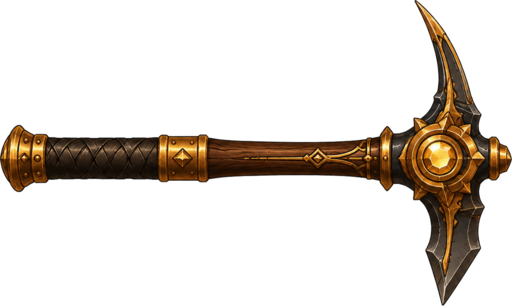
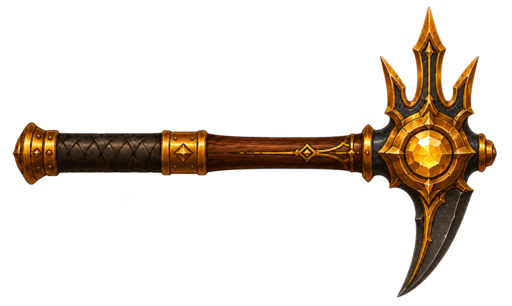
Reforge Crownseeker

Changed region(s): [[0.0, 0.0, 1.0, 1.0]]

diff --git a/tests/runtime-smoke.js b/tests/runtime-smoke.js
@@ -78,17 +78,17 @@ assert.doesNotMatch(pickupBatchSource,/floaters\.push/,'routine pickups must sta
 assert.match(source,/WORLD_LIFE_ART\[response\.kind==='footstep'\?'response':'impact'\]/,'mining must use dedicated impact art while footsteps retain ground responses');
 assert.doesNotMatch(effectRendererSource,/particle|ring|ctx\.arc|ctx\.fillRect/,'the generic effect pass must not render procedural shapes');
 assert.match(effectRendererSource,/STARTER_ART\.drops\[key\]/);assert.match(effectRendererSource,/ctx\.drawImage\(image,bounds\.x,bounds\.y,bounds\.w,bounds\.h/,'sale trails must render premium drop PNGs');
-assert.equal(latest.version,'03800');
+assert.equal(latest.version,'03801');
 assert.match(html,/version\.json\?t=/);
 assert.match(html,/cache:'no-store'/);
-assert.match(html,/style\.css\?v=03800/);
-assert.match(html,/game-data\.js\?v=03800/);
-assert.match(html,/script\.js\?v=03800/);
-assert.match(html,/assets\/branding\/ever-deeper-logo\.png\?v=03800/);
-assert.match(html,/assets\/characters\/miner-b-walk\.png\?v=03800/);
-assert.match(html,/id="toolIcon"[^>]+assets\/tools\/pickaxe-worn\.png\?v=03800/);
-assert.match(html,/id="mineToolIcon"[^>]+assets\/tools\/pickaxe-worn\.png\?v=03800/);
-assert.match(html,/rel="manifest" href="manifest\.webmanifest\?v=03800"/);
+assert.match(html,/style\.css\?v=03801/);
+assert.match(html,/game-data\.js\?v=03801/);
+assert.match(html,/script\.js\?v=03801/);
+assert.match(html,/assets\/branding\/ever-deeper-logo\.png\?v=03801/);
+assert.match(html,/assets\/characters\/miner-b-walk\.png\?v=03801/);
+assert.match(html,/id="toolIcon"[^>]+assets\/tools\/pickaxe-worn\.png\?v=03801/);
+assert.match(html,/id="mineToolIcon"[^>]+assets\/tools\/pickaxe-worn\.png\?v=03801/);
+assert.match(html,/rel="manifest" href="manifest\.webmanifest\?v=03801"/);
 assert.match(source,/const EMBER_PICKAXE_ORE_REQUIRED=100;/);
 assert.match(source,/const EMBER_MASTERY_SUNSLAG_COSTS=Object\.freeze\(\[0,30,40,50,60,70\]\);/);
 assert.match(source,/const STARFORGE_MATERIAL_REQUIRED=200;/);
@@ -143,6 +143,10 @@ for(const id of expectedAchievementIds){
 assert.equal(achievementAssetDigests.size,50,'every achievement must have its own sprite');
 const playerAssets=['assets/characters/miner-b.png','assets/characters/miner-b-drill-burrower.png','assets/characters/miner-b-drill-pulse.png','assets/characters/miner-b-drill-deepcore.png','assets/tools/pickaxe-worn.png','assets/tools/pickaxe-iron.png','assets/tools/pickaxe-runed.png','assets/tools/pickaxe-moonglass.png','assets/tools/pickaxe-ember.png','assets/tools/starforge-crusher.png','assets/tools/starforge-swift.png','assets/tools/starforge-prospector.png'];
 for(const relative of playerAssets){const path=require('node:path').join(__dirname,'..',relative),png=fs.readFileSync(path);assert.equal(png.toString('ascii',1,4),'PNG');assert.equal(png[25],6,relative+' must use RGBA');assert.ok(png.length<250000,relative+' exceeds mobile asset budget')}
+assertPng('assets/tools/starforge-prospector.png',512,306,{maxBytes:250000});
+const crownseekerDigest=require('node:crypto').createHash('sha256').update(fs.readFileSync(require('node:path').join(repositoryRoot,'assets/tools/starforge-prospector.png'))).digest('hex');
+const emberPickaxeDigest=require('node:crypto').createHash('sha256').update(fs.readFileSync(require('node:path').join(repositoryRoot,'assets/tools/pickaxe-ember.png'))).digest('hex');
+assert.notEqual(crownseekerDigest,emberPickaxeDigest,'Crownseeker must remain visually distinct from the Ember Pickaxe');
 const playerWalkAssets=['assets/characters/miner-b-walk.png','assets/characters/miner-b-drill-burrower-walk.png','assets/characters/miner-b-drill-pulse-walk.png','assets/characters/miner-b-drill-deepcore-walk.png'];
 for(const relative of playerWalkAssets)assertPng(relative,1536,1024,{maxBytes:1500000});
 const ambientAssets={
@@ -387,17 +391,17 @@ const expectedSnapshotKeys=[
 ];
 assert.deepEqual(Object.keys(api).sort(),expectedApiKeys,'test API contract changed unexpectedly');
 assert.deepEqual(Object.keys(api.snapshot()).sort(),expectedSnapshotKeys,'snapshot contract changed unexpectedly');
-assert.equal(api.snapshot().build.version,'0.38.0');
+assert.equal(api.snapshot().build.version,'0.38.1');
 assert.equal(api.snapshot().build.name,'UNDERGROUND HUB');
-assert.equal(runtime.elements.get('buildVersion').textContent,'v0.38.0');
-assert.equal(api.snapshot().assetVersion,'03800');
+assert.equal(runtime.elements.get('buildVersion').textContent,'v0.38.1');
+assert.equal(api.snapshot().assetVersion,'03801');
 const patchNotes=api.snapshot().patchNotes,patchNote=version=>patchNotes.find(note=>note.version===version);
-assert.match(patchNote('0.38.0').items.join(' '),/touch-first build mode/);assert.match(patchNote('0.37.5').items.join(' '),/1.30x speed/);
-assert.equal(patchNotes.length,32);assert.match(patchNote('0.37.4').items.join(' '),/high three-quarter perspective/);assert.match(patchNote('0.37.4').items.join(' '),/west to east/);assert.match(patchNote('0.37.3').items.join(' '),/premium silhouette/);assert.match(patchNote('0.37.3').items.join(' '),/physically locked/);assert.match(patchNote('0.37.2').items.join(' '),/dedicated premium mining sheets/);assert.match(patchNote('0.37.2').items.join(' '),/Routine damage, shell, tunnel, pickup, and partial-vein text/);assert.match(patchNote('0.37.1').items.join(' '),/old canvas rings and procedural debris are gone/);assert.match(patchNote('0.37.1').items.join(' '),/real premium drop assets/);assert.match(patchNote('0.37.0').items.join(' '),/premium environmental drift/);assert.match(patchNote('0.37.0').items.join(' '),/Footsteps disturb the ground/);assert.match(patchNote('0.36.4').items.join(' '),/flee continuously/);assert.match(patchNote('0.36.3').items.join(' '),/keep their render slot/);assert.match(patchNote('0.36.2').items.join(' '),/pause and rest naturally/);assert.match(patchNote('0.36.2').items.join(' '),/Nearby mining startles residents/);assert.match(patchNote('0.36.1').items.join(' '),/clearly visible routes/);assert.match(patchNote('0.36.1').items.join(' '),/sampled against terrain/);assert.match(patchNote('0.36.0').items.join(' '),/Four premium animated creatures/);assert.match(patchNote('0.36.0').items.join(' '),/Reduced Motion/);assert.match(patchNote('0.35.11').items.join(' '),/70 Phase Crystal/);assert.match(patchNote('0.35.10').items.join(' '),/DEEPCORE DRILL REQUIRED/);assert.match(patchNote('0.35.9').items.join(' '),/Eight unreachable Astralite nodes/);assert.match(patchNote('0.35.8').items.join(' '),/30, 40, 50, 60, and 70/);assert.match(patchNote('0.35.7').items.join(' '),/Holding Mine/);assert.match(patchNote('0.35.7').items.join(' '),/manual press/);assert.match(patchNote('0.35.6').items.join(' '),/painted width/);assert.match(patchNote('0.35.5').items.join(' '),/tink-tink-tink/);assert.match(patchNote('0.35.4').items.join(' '),/complete passage/);assert.match(patchNote('0.35.3').items.join(' '),/natural openings/);assert.match(patchNote('0.35.2').items.join(' '),/unbreakable-wall PNG/);assert.match(patchNote('0.35.1').items.join(' '),/production PNGs/);assert.match(patchNote('0.35.0').items.join(' '),/Physical biome walls/);assert.match(patchNote('0.34.7').items.join(' '),/Gameplay, balance, progression, controls, and visuals are unchanged/);assert.match(patchNote('0.34.6').items.join(' '),/Reset All Progress/);assert.match(patchNote('0.34.1').items.join(' '),/100 Emberstone/);assert.match(patchNote('0.34.1').items.join(' '),/200 Astralite and 200 Crownstone/);assert.equal(api.snapshot().lighting.readableTextOverlay,true);assert.equal(api.snapshot().lighting.textPass,'after-lighting');
+assert.match(patchNote('0.38.1').items.join(' '),/three-point crown/);assert.match(patchNote('0.38.0').items.join(' '),/touch-first build mode/);assert.match(patchNote('0.37.5').items.join(' '),/1.30x speed/);
+assert.equal(patchNotes.length,33);assert.match(patchNote('0.37.4').items.join(' '),/high three-quarter perspective/);assert.match(patchNote('0.37.4').items.join(' '),/west to east/);assert.match(patchNote('0.37.3').items.join(' '),/premium silhouette/);assert.match(patchNote('0.37.3').items.join(' '),/physically locked/);assert.match(patchNote('0.37.2').items.join(' '),/dedicated premium mining sheets/);assert.match(patchNote('0.37.2').items.join(' '),/Routine damage, shell, tunnel, pickup, and partial-vein text/);assert.match(patchNote('0.37.1').items.join(' '),/old canvas rings and procedural debris are gone/);assert.match(patchNote('0.37.1').items.join(' '),/real premium drop assets/);assert.match(patchNote('0.37.0').items.join(' '),/premium environmental drift/);assert.match(patchNote('0.37.0').items.join(' '),/Footsteps disturb the ground/);assert.match(patchNote('0.36.4').items.join(' '),/flee continuously/);assert.match(patchNote('0.36.3').items.join(' '),/keep their render slot/);assert.match(patchNote('0.36.2').items.join(' '),/pause and rest naturally/);assert.match(patchNote('0.36.2').items.join(' '),/Nearby mining startles residents/);assert.match(patchNote('0.36.1').items.join(' '),/clearly visible routes/);assert.match(patchNote('0.36.1').items.join(' '),/sampled against terrain/);assert.match(patchNote('0.36.0').items.join(' '),/Four premium animated creatures/);assert.match(patchNote('0.36.0').items.join(' '),/Reduced Motion/);assert.match(patchNote('0.35.11').items.join(' '),/70 Phase Crystal/);assert.match(patchNote('0.35.10').items.join(' '),/DEEPCORE DRILL REQUIRED/);assert.match(patchNote('0.35.9').items.join(' '),/Eight unreachable Astralite nodes/);assert.match(patchNote('0.35.8').items.join(' '),/30, 40, 50, 60, and 70/);assert.match(patchNote('0.35.7').items.join(' '),/Holding Mine/);assert.match(patchNote('0.35.7').items.join(' '),/manual press/);assert.match(patchNote('0.35.6').items.join(' '),/painted width/);assert.match(patchNote('0.35.5').items.join(' '),/tink-tink-tink/);assert.match(patchNote('0.35.4').items.join(' '),/complete passage/);assert.match(patchNote('0.35.3').items.join(' '),/natural openings/);assert.match(patchNote('0.35.2').items.join(' '),/unbreakable-wall PNG/);assert.match(patchNote('0.35.1').items.join(' '),/production PNGs/);assert.match(patchNote('0.35.0').items.join(' '),/Physical biome walls/);assert.match(patchNote('0.34.7').items.join(' '),/Gameplay, balance, progression, controls, and visuals are unchanged/);assert.match(patchNote('0.34.6').items.join(' '),/Reset All Progress/);assert.match(patchNote('0.34.1').items.join(' '),/100 Emberstone/);assert.match(patchNote('0.34.1').items.join(' '),/200 Astralite and 200 Crownstone/);assert.equal(api.snapshot().lighting.readableTextOverlay,true);assert.equal(api.snapshot().lighting.textPass,'after-lighting');
 assert.equal(JSON.stringify(api.snapshot().startMenu.actions),JSON.stringify(['continue','new-game','achievements','settings']));
 assert.equal(api.snapshot().startMenu.achievementsInPause,false);
 assert.equal(JSON.stringify(api.snapshot().music),JSON.stringify({asset:'assets/audio/ever-deeper-drift-loop.mp3',volume:1,loop:true,started:false,enabled:true,effectsEnabled:true}));
-assert.equal(JSON.stringify(api.startMusic()),JSON.stringify({src:'assets/audio/ever-deeper-drift-loop.mp3?v=03800',volume:1,loop:true,paused:false}));
+assert.equal(JSON.stringify(api.startMusic()),JSON.stringify({src:'assets/audio/ever-deeper-drift-loop.mp3?v=03801',volume:1,loop:true,paused:false}));
 api.dismissStartMenu();
 const viewportElement=runtime.elements.get('viewport'),canvasElement=runtime.elements.get('gameCanvas'),joystickElement=runtime.elements.get('joystick'),mineElement=runtime.elements.get('mineButton');
 viewportElement.dispatchEvent({type:'pointerdown',target:canvasElement,pointerId:301,button:0,clientX:120,clientY:260});

diff --git a/index.html b/index.html
@@ -12,11 +12,11 @@
   <meta name="apple-mobile-web-app-capable" content="yes">
   <meta name="apple-mobile-web-app-status-bar-style" content="black-translucent">
   <meta name="description" content="Ever Deeper is a mobile-first fantasy mining adventure.">
-  <link rel="manifest" href="manifest.webmanifest?v=03800">
+  <link rel="manifest" href="manifest.webmanifest?v=03801">
   <title>Ever Deeper</title>
   <script>
     (()=>{
-      const currentVersion='03800';
+      const currentVersion='03801';
       const checkLatest=()=>fetch('version.json?t='+Date.now(),{cache:'no-store'})
         .then(response=>response.ok?response.json():null)
         .then(latest=>{
@@ -31,23 +31,23 @@
       window.addEventListener('pageshow',event=>{if(event.persisted)checkLatest()});
     })();
   </script>
-  <link rel="preload" as="image" href="assets/branding/ever-deeper-logo.png?v=03800">
-  <link rel="preload" as="image" href="assets/characters/miner-b-walk.png?v=03800">
-  <link rel="preload" as="image" href="assets/tools/pickaxe-worn.png?v=03800">
-  <link rel="stylesheet" href="style.css?v=03800">
+  <link rel="preload" as="image" href="assets/branding/ever-deeper-logo.png?v=03801">
+  <link rel="preload" as="image" href="assets/characters/miner-b-walk.png?v=03801">
+  <link rel="preload" as="image" href="assets/tools/pickaxe-worn.png?v=03801">
+  <link rel="stylesheet" href="style.css?v=03801">
 </head>
 <body>
   <main id="game" aria-label="Ever Deeper mining game">
     <header class="topbar">
       <div class="brand" aria-label="Ever Deeper">
-        <img class="brand-logo" src="assets/branding/ever-deeper-logo.png?v=03800" alt="Ever Deeper">
+        <img class="brand-logo" src="assets/branding/ever-deeper-logo.png?v=03801" alt="Ever Deeper">
         <div class="brand-meta">
-          <span id="buildVersion">v0.38.0</span>
+          <span id="buildVersion">v0.38.1</span>
           <small id="areaName">MOSSVEIN QUARRY</small>
         </div>
       </div>
       <div class="resources" aria-label="Resources">
-        <div class="resource gold" title="Gold"><span class="resource-icon topbar-resource" data-resource="gold"><img src="assets/drops/gold-drop.png?v=03800" alt="" aria-hidden="true"></span><b id="goldValue">0</b></div>
+        <div class="resource gold" title="Gold"><span class="resource-icon topbar-resource" data-resource="gold"><img src="assets/drops/gold-drop.png?v=03801" alt="" aria-hidden="true"></span><b id="goldValue">0</b></div>
         <button id="inventoryButton" class="resource cargo" type="button" title="Resource inventory" aria-label="Open resource inventory">
           <svg class="hud-icon" viewBox="0 0 32 32" aria-hidden="true"><path d="M8 12.5h16l2 14H6l2-14Z"/><path d="M11 13V9.5a5 5 0 0 1 10 0V13"/><path d="M10 18h12"/></svg><b id="cargoValue">0</b>
         </button>
@@ -122,7 +122,7 @@
 
       <div class="action-cluster">
         <button id="mineButton" class="mine-button" type="button" aria-label="Mine nearby rock">
-          <span class="mine-tool" aria-hidden="true"><img id="mineToolIcon" src="assets/tools/pickaxe-worn.png?v=03800" alt=""></span>
+          <span class="mine-tool" aria-hidden="true"><img id="mineToolIcon" src="assets/tools/pickaxe-worn.png?v=03801" alt=""></span>
           <b id="mineAction">MINE</b>
           <small id="mineHint">HOLD</small>
         </button>
@@ -138,7 +138,7 @@
     </section>
 
     <footer class="progress-bar">
-      <div class="tool-badge"><img id="toolIcon" src="assets/tools/pickaxe-worn.png?v=03800" alt="" aria-hidden="true"></div>
+      <div class="tool-badge"><img id="toolIcon" src="assets/tools/pickaxe-worn.png?v=03801" alt="" aria-hidden="true"></div>
       <div class="tool-copy">
         <span id="toolKind">YOUR PICKAXE</span>
         <b id="pickaxeName">Worn Pickaxe</b>
@@ -155,7 +155,7 @@
 
     <div id="heatTutorialShade" class="heat-tutorial-shade" hidden>
       <section class="heat-tutorial-card" role="dialog" aria-modal="true" aria-labelledby="heatTutorialTitle">
-        <div class="heat-tutorial-art" aria-hidden="true"><img src="assets/tools/pickaxe-ember.png?v=03800" alt=""></div>
+        <div class="heat-tutorial-art" aria-hidden="true"><img src="assets/tools/pickaxe-ember.png?v=03801" alt=""></div>
         <span>EMBER MASTERY 5</span>
         <h2 id="heatTutorialTitle">Heat Streak Unlocked</h2>
         <p>Keep holding Mine to build heat and gradually mine faster. Stop mining and the streak resets.</p>
@@ -166,7 +166,7 @@
 
     <div id="hubTutorialShade" class="hub-tutorial-shade" hidden>
       <section class="hub-tutorial-card" role="dialog" aria-modal="true" aria-labelledby="hubTutorialTitle">
-        <div class="hub-tutorial-art" aria-hidden="true"><img src="assets/voidstar/depth-portal.png?v=03800" alt=""></div>
+        <div class="hub-tutorial-art" aria-hidden="true"><img src="assets/voidstar/depth-portal.png?v=03801" alt=""></div>
         <span>WORLD 4 COMPLETE</span>
         <h2 id="hubTutorialTitle">Underground Hub Unlocked</h2>
         <p>A permanent safe room now waits in Starfall. Build it without resetting your expedition.</p>
@@ -200,7 +200,7 @@
     <div id="menuShade" class="menu-shade" hidden>
       <section class="menu-card" role="dialog" aria-modal="true" aria-labelledby="menuTitle">
         <header class="menu-header">
-          <div class="dialog-title"><i aria-hidden="true"><svg viewBox="0 0 32 32"><circle cx="16" cy="16" r="5"/><path d="M16 3v6M16 23v6M3 16h6M23 16h6M6.8 6.8l4.2 4.2M21 21l4.2 4.2M25.2 6.8 21 11M11 21l-4.2 4.2"/></svg></i><div><span id="menuBuildVersion">EVER DEEPER v0.38.0 · UNDERGROUND HUB</span><h2 id="menuTitle">Settings</h2></div></div>
+          <div class="dialog-title"><i aria-hidden="true"><svg viewBox="0 0 32 32"><circle cx="16" cy="16" r="5"/><path d="M16 3v6M16 23v6M3 16h6M23 16h6M6.8 6.8l4.2 4.2M21 21l4.2 4.2M25.2 6.8 21 11M11 21l-4.2 4.2"/></svg></i><div><span id="menuBuildVersion">EVER DEEPER v0.38.1 · UNDERGROUND HUB</span><h2 id="menuTitle">Settings</h2></div></div>
           <button id="menuCloseButton" class="menu-close close-button" type="button" aria-label="Close settings"><svg viewBox="0 0 24 24" aria-hidden="true"><path d="m6 6 12 12M18 6 6 18"/></svg></button>
         </header>
         <nav class="menu-tabs" aria-label="Game menu">
@@ -261,7 +261,7 @@
     <section id="startScreen" class="start-screen" aria-label="Main menu">
       <div class="start-atmosphere" aria-hidden="true"><i></i><i></i><i></i></div>
       <div class="start-menu-card">
-        <img class="start-logo" src="assets/branding/ever-deeper-logo.png?v=03800" alt="Ever Deeper">
+        <img class="start-logo" src="assets/branding/ever-deeper-logo.png?v=03801" alt="Ever Deeper">
         <p>THE DEPTHS ARE CALLING</p>
         <nav class="start-actions" aria-label="Main menu actions">
           <button id="continueButton" class="start-primary" type="button"><span>CONTINUE</span><small id="continueDetail">LAST EXPEDITION</small></button>
@@ -269,7 +269,7 @@
           <button id="startAchievementsButton" type="button"><span>ACHIEVEMENTS</span><small id="startAchievementsDetail">0 / 50 UNLOCKED</small></button>
           <button id="startSettingsButton" type="button"><span>SETTINGS</span><small>AUDIO &amp; OPTIONS</small></button>
         </nav>
-        <span class="start-version">v0.38.0 · UNDERGROUND HUB</span>
+        <span class="start-version">v0.38.1 · UNDERGROUND HUB</span>
       </div>
     </section>
   </main>
@@ -278,7 +278,7 @@
     <b>ROTATE TO PORTRAIT</b>
     <span>Ever Deeper is built for upright play</span>
   </div>
-  <script src="game-data.js?v=03800"></script>
-  <script src="script.js?v=03800"></script>
+  <script src="game-data.js?v=03801"></script>
+  <script src="script.js?v=03801"></script>
 </body>
 </html>

diff --git a/tests/browser/mining-loop.spec.js b/tests/browser/mining-loop.spec.js
@@ -1361,8 +1361,8 @@ test('expanded mine depths use lazy terrain chunks and a following camera',async
   await freshGame(page);
   await page.evaluate(()=>window.__everDeeperTest.enterMine('mossMine'));
   let snapshot=await page.evaluate(()=>window.__everDeeperTest.snapshot());
-  expect(snapshot.build).toEqual({version:'0.38.0',name:'UNDERGROUND HUB'});
-  expect(snapshot.assetVersion).toBe('03800');
+  expect(snapshot.build).toEqual({version:'0.38.1',name:'UNDERGROUND HUB'});
+  expect(snapshot.assetVersion).toBe('03801');
   expect(snapshot.entranceAssetRendering).toEqual({mossMine:true,moonMine:true,emberMine:true,starMine:true});
   expect(snapshot.surfaceAssetRendering).toEqual({mossveinGround:true,mainRoad:{mossvein:'assets/surface/road-mossvein.png',moonglass:'assets/surface/road-moonglass.png',emberdeep:'assets/surface/road-emberdeep.png',starfall:'assets/surface/road-starfall.png'},seamlessBiomeRoad:true,roadCrossfadeWidth:80,mossveinMineApproach:'assets/surface/mossvein-mine-path.png',mossveinMineApproachBounds:{x:125,y:728,w:700,h:200},mossveinMinePosition:{x:180,y:830},branchUnderMainRoad:true,naturalCaveOverlap:true,naturalRoadOverlap:true,legacyBakedMainRoad:false,legacyMossveinGrid:false,legacyMossveinPath:false,legacyMossveinDecorations:false});
   expect(snapshot.starterRendering).toEqual({sellStation:'assets/surface/assay-station.png',forgeStation:'assets/surface/forge-station.png',storageChest:'assets/surface/storage-chest.png',wayfarerShop:'assets/surface/wayfarer-shop.png',treasureClosed:'assets/surface/treasure-cache-closed.png',treasureOpen:'assets/surface/treasure-cache-open.png',groundDrops:COMPLETE_DROP_PATHS,legacyCanvasStations:false,legacyMossveinChests:false,legacyStarterDrops:false});
@@ -1386,18 +1386,18 @@ test('expanded mine depths use lazy terrain chunks and a following camera',async
 
 test('the exact build version is always visible in the game HUD',async({page})=>{
   await freshGame(page);
-  await expect(page.locator('#buildVersion')).toHaveText('v0.38.0');
+  await expect(page.locator('#buildVersion')).toHaveText('v0.38.1');
   await expect(page.locator('.brand-logo')).toHaveAttribute('alt','Ever Deeper');
   await expect(page.locator('.brand-logo')).toHaveJSProperty('complete',true);
   await page.locator('#menuButton').click();
-  await expect(page.locator('#menuBuildVersion')).toHaveText('EVER DEEPER v0.38.0 · UNDERGROUND HUB');
+  await expect(page.locator('#menuBuildVersion')).toHaveText('EVER DEEPER v0.38.1 · UNDERGROUND HUB');
 });
 
 test('premium start menu owns continue, new game, achievements, and settings',async({page})=>{
   await page.goto('/');await page.waitForFunction(()=>window.__everDeeperTest);
   await expect(page.locator('#startScreen')).toBeVisible();
   await expect(page.locator('#continueButton')).toBeDisabled();
-  await expect(page.locator('.start-logo')).toHaveAttribute('src','assets/branding/ever-deeper-logo.png?v=03800');
+  await expect(page.locator('.start-logo')).toHaveAttribute('src','assets/branding/ever-deeper-logo.png?v=03801');
   await page.locator('#startAchievementsButton').click();
   await expect(page.locator('#achievementsPanel')).toBeVisible();
   await expect(page.locator('.menu-tabs')).toBeHidden();
@@ -1425,8 +1425,9 @@ test('settings opens first and keeps audio choices separate from stats',async({p
   await expect(page.locator('#menuTitle')).toHaveText('Patch Notes');
   await expect(page.locator('#patchNotesPanel')).toBeVisible();
   const patchNotes=page.locator('.patch-note');
-  await expect(patchNotes).toHaveCount(32);
-  await expect(page.locator('.patch-note.latest')).toContainText('v0.38.0');
+  await expect(patchNotes).toHaveCount(33);
+  await expect(page.locator('.patch-note.latest')).toContainText('v0.38.1');
+  await expect(page.locator('.patch-note.latest')).toContainText('three-point crown');
   await expect(patchNotes.filter({hasText:'v0.37.4'})).toContainText('same high three-quarter perspective');
   await expect(patchNotes.filter({hasText:'v0.37.4'})).toContainText('west to east');
   await expect(patchNotes.filter({hasText:'v0.37.3'})).toContainText('brief light through its premium silhouette');
@@ -1802,11 +1803,11 @@ test('real resource art is shared by goals, bags, recipes, stats and world drops
   expect(contract).toMatchObject({paths:COMPLETE_DROP_PATHS,completeResourceSet:true,sharedWorldAndUiAssets:true,transparentBoundsNormalized:true,nodeAssetCoverage:true,croppedGroundDrops:true,legacyCanvasResourceSymbols:false,legacyCanvasResourceDrops:false});
 });
 
-test('v0.38.0 exposes the complete production contracts and premium walk renderer',async({page})=>{
+test('v0.38.1 exposes the complete production contracts and premium walk renderer',async({page})=>{
   await freshGame(page);
   const snapshot=await page.evaluate(()=>window.__everDeeperTest.snapshot());
-  expect(snapshot.build).toEqual({version:'0.38.0',name:'UNDERGROUND HUB'});
-  expect(snapshot.assetVersion).toBe('03800');
+  expect(snapshot.build).toEqual({version:'0.38.1',name:'UNDERGROUND HUB'});
+  expect(snapshot.assetVersion).toBe('03801');
   expect(snapshot.surfaceMoonglassRendering).toEqual(SURFACE_MOONGLASS_RENDERING);
   expect(snapshot.surfaceEmberdeepRendering).toEqual(SURFACE_EMBERDEEP_RENDERING);
   expect(snapshot.moonglassRendering).toEqual(MOONGLASS_RENDERING);

diff --git a/tests/browser/release-branding.spec.js b/tests/browser/release-branding.spec.js
@@ -9,9 +9,9 @@ test('Ever Deeper release branding is complete and mobile-safe',async({page})=>{
   await page.goto('/');
   await page.waitForFunction(()=>window.__everDeeperTest);
   const scripts=await page.locator('script[src]').evaluateAll(elements=>elements.map(script=>({src:script.getAttribute('src'),type:script.type})));
-  const gameDataIndex=scripts.findIndex(script=>script.src==='game-data.js?v=03800'),engineIndex=scripts.findIndex(script=>script.src==='script.js?v=03800');
+  const gameDataIndex=scripts.findIndex(script=>script.src==='game-data.js?v=03801'),engineIndex=scripts.findIndex(script=>script.src==='script.js?v=03801');
   expect(gameDataIndex).toBeGreaterThanOrEqual(0);expect(engineIndex).toBeGreaterThan(gameDataIndex);
-  expect(scripts.every(script=>script.type===''&&script.src.endsWith('?v=03800'))).toBe(true);
+  expect(scripts.every(script=>script.type===''&&script.src.endsWith('?v=03801'))).toBe(true);
 
   await expect(page).toHaveTitle('Ever Deeper');
   await expect(page.locator('meta[name="application-name"]')).toHaveAttribute('content','Ever Deeper');
@@ -21,20 +21,20 @@ test('Ever Deeper release branding is complete and mobile-safe',async({page})=>{
   const logo=page.locator('.brand-logo');
   await expect(logo).toBeVisible();
   await expect(logo).toHaveAttribute('alt','Ever Deeper');
-  await expect(logo).toHaveAttribute('src','assets/branding/ever-deeper-logo.png?v=03800');
+  await expect(logo).toHaveAttribute('src','assets/branding/ever-deeper-logo.png?v=03801');
   const logoState=await logo.evaluate(image=>({complete:image.complete,width:image.naturalWidth,height:image.naturalHeight,bounds:image.getBoundingClientRect().toJSON()}));
   expect(logoState).toMatchObject({complete:true,width:800,height:297});
   expect(logoState.bounds.width).toBeGreaterThanOrEqual(124);
   expect(logoState.bounds.right).toBeLessThanOrEqual(await page.evaluate(()=>innerWidth));
 
-  await expect(page.locator('#buildVersion')).toHaveText('v0.38.0');
-  await expect(page.locator('#menuBuildVersion')).toHaveText('EVER DEEPER v0.38.0 · UNDERGROUND HUB');
-  await expect(page.locator('#toolIcon')).toHaveAttribute('src','assets/tools/pickaxe-worn.png?v=03800');
-  await expect(page.locator('#mineToolIcon')).toHaveAttribute('src','assets/tools/pickaxe-worn.png?v=03800');
+  await expect(page.locator('#buildVersion')).toHaveText('v0.38.1');
+  await expect(page.locator('#menuBuildVersion')).toHaveText('EVER DEEPER v0.38.1 · UNDERGROUND HUB');
+  await expect(page.locator('#toolIcon')).toHaveAttribute('src','assets/tools/pickaxe-worn.png?v=03801');
+  await expect(page.locator('#mineToolIcon')).toHaveAttribute('src','assets/tools/pickaxe-worn.png?v=03801');
   await page.evaluate(()=>window.__everDeeperTest.dismissStartMenu());
   await page.evaluate(()=>window.__everDeeperTest.setPosition(455,250));
   await expect(page.locator('#contextPanel')).toBeVisible();
-  await expect(page.locator('#contextIconImage')).toHaveAttribute('src',/assets\/surface\/forge-station\.png\?v=03800$/);
+  await expect(page.locator('#contextIconImage')).toHaveAttribute('src',/assets\/surface\/forge-station\.png\?v=03801$/);
   const release=await page.evaluate(()=>{
     const api=window.__everDeeperTest;
     api.reset();api.save();
@@ -48,7 +48,7 @@ test('Ever Deeper release branding is complete and mobile-safe',async({page})=>{
     };
   });
   expect(release).toEqual({
-    build:{version:'0.38.0',name:'UNDERGROUND HUB'},
+    build:{version:'0.38.1',name:'UNDERGROUND HUB'},
     music:'assets/audio/ever-deeper-drift-loop.mp3',
     retiredMarkup:false,
     retiredStorage:false,

diff --git a/script.js b/script.js
@@ -4,7 +4,7 @@
   const canvas=document.getElementById('gameCanvas');
   const game=document.getElementById('game');
   const ctx=canvas.getContext('2d',{alpha:false});
-  const ASSET_VERSION='03800';
+  const ASSET_VERSION='03801';
   const MOONGLASS_SURFACE_BLEND=24;
   const MOONGLASS_GATE_TRANSITION_DURATION=2.4;
   const EMBERDEEP_SURFACE_BLEND=24;
@@ -466,8 +466,9 @@
   const buyChestCost=document.getElementById('buyChestCost');
   const baseModuleList=document.getElementById('baseModuleList');
 
-  const BUILD={version:'0.38.0',name:'UNDERGROUND HUB'};
+  const BUILD={version:'0.38.1',name:'UNDERGROUND HUB'};
   const PATCH_NOTES=[
+    {version:'0.38.1',date:'16 AUG 2026',title:'Crownseeker Reforged',items:['Crownseeker now has a bold three-point crown, a large Crownstone core, and one dark mining beak, making its silhouette unmistakable beside the Ember Pickaxe.','This is a visual reforge only; its stats, recipe, and progression are unchanged.']},
     {version:'0.38.0',date:'16 AUG 2026',title:'Underground Hub',items:['Conquering Voidstar now unlocks a permanent Underground Hub and a new lift in Starfall.','The safe Hub has a touch-first build mode: drag to place stone wall panels, add gold-powered lamps, place functional storage, or remove everything without losing materials.','Hub construction, storage contents, exact placement, and your full expedition persist with no prestige reset. The Deep elevator is installed but remains offline for the next phase.']},
     {version:'0.37.5',date:'16 AUG 2026',title:'Heat Streak',items:['Ember Mastery 5 now unlocks Heat Streak.','Holding Mine through a continuous run gradually accelerates pickaxe mining up to 1.30x speed; releasing Mine resets the bonus.','A one-time unlock tutorial explains the new ability as soon as the final Ember rank is reforged.']},
     {version:'0.37.4',date:'16 AUG 2026',title:'Aligned Gates',items:['All three world gates now use new premium assets painted in the same high three-quarter perspective as their biome cliffs.','Gate structures run north-to-south with the wall while the passage reads clearly from west to east.','The old front-facing silhouette, duplicate canvas light seam, and pasted-on shadow are gone.']},

diff --git a/README.md b/README.md
@@ -1,6 +1,6 @@
 # Ever Deeper
 
-Current build: **Ever Deeper v0.38.0 - Underground Hub**
+Current build: **Ever Deeper v0.38.1 - Crownseeker Reforged**
 
 Completing Starfall and extracting the first Singularity Core now unlocks a persistent Underground Hub beneath the final world. The Hub is a safe, non-mineable building scene with touch-first wall painting, removable lamps that shape the room lighting, real storage chests, a lift back to Starfall, and an offline elevator reserved for The Deep. Hub construction uses existing Stone and Gold, survives reloads, and never resets expedition progress.
 
@@ -136,7 +136,7 @@ Open `http://127.0.0.1:4180` on the same computer.
 - Five Ember Mastery ranks extend progression after the final pickaxe. Each rank needs gold plus a lifetime Sunslag milestone, then grants higher power, swing speed, shell penetration, precision frequency, and bonus yield.
 - Damage left over after breaking an armored shell now carries into the ore core, so stronger pickaxes never waste their extra power at the shell boundary.
 - Ember Mastery 5 opens the Starfall Master Seal and reveals Starfall Depths, armored Astralite, rare Crownstone, and the Starfall Lattice.
-- The Starforge consumes Astralite and Crownstone to unlock three swappable endgame styles: the heavy Astral Crusher, rapid Comet Edge, and high-yield Crownseeker.
+- The Starforge consumes Astralite and Crownstone to unlock three swappable endgame styles: the heavy Astral Crusher, rapid Comet Edge, and high-yield Crownseeker. Crownseeker's three-point Crownstone crest and single mining beak give it a distinct silhouette from the Ember Pickaxe.
 - Three visible rock-damage stages and optional timing-based precision strikes.
 - Stronger mining feedback with staged terrain cracks, brief impact weight, material-tuned audio, optional haptics, escalating vein feedback, and discovery/jackpot bursts, without full-screen shake or flashes.
 - A five-step Mining Focus streak for accurate active play.
